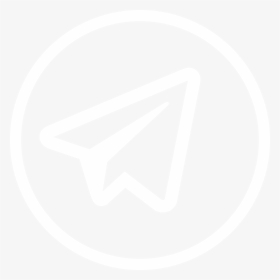
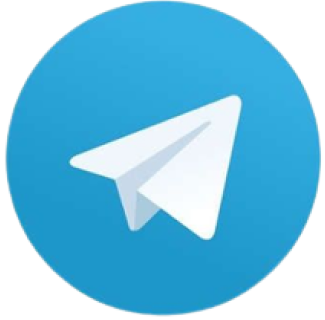
fixed bugs

diff --git a/backend/main_screen/templates/index.html b/backend/main_screen/templates/index.html
@@ -24,7 +24,6 @@
                         <img class="logo1" src="./media/images/bg2.svg" alt="logo">
                     </a> 
                 </div>
-                
     
                 <div class="nav">
                     <a class="nav-item" href="#services">УСЛУГИ</a>
@@ -53,10 +52,10 @@
 
                 <div class="soc">
                     <a href="https://t.me/unicornandflowers" class="iv">
-                        <img src="./media/images/tg.svg" alt="tg">
+                        <img src="./media/images/tg.png" alt="tg">
                     </a>
                     <a href="https://vk.com/unicornflowers" class="iv">
-                        <img src="./media/images/vk.svg" alt="vk">
+                        <img src="./media/images/vk.png" alt="vk">
                     </a>
                 </div>
                     
@@ -114,7 +113,7 @@
                     <div class="done-block-pages">
                         <img class="block-photo" src="./media/онлайн-витрина/1.jpg" alt="">
                         <div class="block-txt-price">
-                            <div class="block-titl">БУКЕТ ИЗ 51 РОЗЫ <br>Сорт ред Наоми</div>
+                            <div class="block-titl">БУКЕТ ИЗ 51 РОЗЫ</div>
                             <div class="block-price">от 7650 рублей</div>
                         </div>  
                         <a href="https://t.me/unicornandflowers" class="block-order">Заказать</a>
@@ -141,7 +140,7 @@
                     <div class="done-block-pages">
                         <img class="block-photo" src="./media/онлайн-витрина/4.jpg" alt="">
                         <div class="block-txt-price">
-                            <div class="block-titl">БУКЕТ ИЗ 17 ПИОНОВИДНЫХ РОЗ<br>Сорт Мисти баблс</div>
+                            <div class="block-titl">БУКЕТ ИЗ 17 ПИОНОВИДНЫХ РОЗ</div>
                             <div class="block-price">от 5100 рублей</div>
                         </div>  
                         <a href="https://t.me/unicornandflowers" class="block-order">Заказать</a>
@@ -223,7 +222,7 @@
                     <div class="done-block-pages">
                         <img class="block-photo" src="./media/букеты/4.jpg" alt="">
                         <div class="block-txt-price">
-                            <div class="block-titl">БУКЕТ "ДОМАНЕЕ ТЕПЛО"<br> В наличии</div>
+                            <div class="block-titl">БУКЕТ "ДОМАШНЕЕ ТЕПЛО"<br> В наличии</div>
                             <div class="block-price">от 6800 рублей</div>
                         </div>  
                         <a href="https://t.me/unicornandflowers" class="block-order">Заказать</a>
@@ -327,13 +326,13 @@
             <div class="container">
                 <div class="collabs-inner">
                     <h1 class="collabs-text">U&F & Цвета.Цветы</h1>
-                    <p class="collabs-txt">Стильные и экологичные букеты и композиции совместно c "Цвета.Цветы" можно заказать в нашем <a class="collabs-txt-a" href="@unicornandflowers">telegram</a></p>
+                    <p class="collabs-txt">Стильные и экологичные букеты и композиции совместно c "Цвета.Цветы" можно заказать в нашем <a class="collabs-txt-a" href="https://t.me/unicornandflowers">telegram</a></p>
                     <div class="niks-tg">
-                        <a class="nik-tg" href="@unicornandflowers">@unicornandflowers</a>
+                        <a class="nik-tg" href="https://t.me/unicornandflowers">@unicornandflowers</a>
                     </div>
                     <div class="collabs">
                         <div class="images-collab">
-                            <img class="img-collab" src="./media/коллаб/коллаб1.png">
+                            <img class="img-collab" src="./media/коллаб/collab.png">
                         </div>
                     </div>
                 </div>
@@ -507,8 +506,8 @@
             </div>
 
             <div class="footer-soc">
-                <a href="https://t.me/unicornandflowers"><img src="./media/images/tg.svg" alt="tg"></a>
-                <a href="https://vk.com/unicornflowers"><img src="./media/images/vk.svg" alt="vk"></a>
+                <a href="https://t.me/unicornandflowers"><img src="./media/images/tg.png" alt="tg"></a>
+                <a href="https://vk.com/unicornflowers"><img src="./media/images/vk.png" alt="vk"></a>
             </div>
         </div>
     </main>

diff --git a/static/florist-media.css b/static/florist-media.css
@@ -323,7 +323,7 @@
 
     .done-block-pages{
         width: 267px;
-        height: 387px;
+        height: 375px;
     }
 
     .block-photo{
@@ -332,8 +332,7 @@
 
     .block-titl{
         font-size: 14px;
-        min-height: 56px;
-        margin-top: 3px;
+        min-height: 34px;
     }
 }
 
@@ -791,8 +790,12 @@
 }
 
 @media (max-width:831px){
+    .container {
+        padding: 58px 48px;
+    }
+
     .nav-item{
-        padding-right: 40px;
+        padding-right: 20px;
     }
 
     .showcase-txt{
@@ -885,7 +888,7 @@
 @media (max-width:709px){
     .done-block-pages{
         width: 238px;
-        height: 370px;
+        height: 345px;
     }
 
     .block-photo{
@@ -899,8 +902,12 @@
 }
 
 @media (max-width:700px){
+    .container {
+        padding: 78px 48px;
+    }
+
     .nav-item{
-        padding-right: 40px;
+        padding-right: 12px;
     }
 
     .txt{
@@ -969,6 +976,14 @@
         margin-top: -38px;
         width: 113px;
     }
+
+    .ikonki-img{
+        width: 15px;
+    }
+
+    .iv {
+        padding-left: 7px;
+    }
 }
 
 @media (max-width:602px){
@@ -996,15 +1011,11 @@
 @media (max-width:589px){
     .done-block-pages{
         width: 204px;
-        height: 338px;
+        height: 314px;
     }
 
     .block-photo{
         width: 145px;
-    }
-
-    .block-titl{
-        min-height: 71px;
     }
 
     .kontur{
@@ -1055,9 +1066,13 @@
 }  
 
 @media (max-width:521px){
+    .showcase{
+        height: 97px;
+    }
+
     .done-block-pages{
-        width: 350px;
-        height: 475px;
+        width: 372px;
+        height: 460px;
     }
 
     .block-photo{
@@ -1065,7 +1080,7 @@
     }
 
     .block-titl{
-        min-height: 83px;
+        min-height: 63px;
         font-size: 20px;
     }
 
@@ -1097,7 +1112,7 @@
 
     .flowers-we-kontur {
         margin-left: -113px;
-        margin-top: 174px;
+        margin-top: 118px;
     }
 
     .we-two {
@@ -1137,6 +1152,10 @@
 }
 
 @media (max-width:473px){
+    .nav-item{
+        padding-right: 7px;
+    }
+    
     .about-us-text{
         padding-left: 14px;
         width: 214px;
@@ -1151,14 +1170,14 @@
     }
 
     .flowers-we-kontur {
-        margin-left: -91px;
+        margin-left: -104px;
         width: 94px;
     }
 }
 
 @media (max-width:460px){
     .nav-item{
-        padding-right: 20px;
+        padding-right: 0px;
     }
 
     .container{
@@ -1178,7 +1197,7 @@
     }
 
     .block-title-name-sol {
-        margin-top: -1px;
+        margin-top: 18px;
     }
 
     .flora-block-title {
@@ -1205,16 +1224,15 @@
 @media (max-width:403px){
     .done-block-pages{
         width: 270px;
-        height: 415px;
+        height: 401px;
     }
 
     .block-photo{
         width: 200px;
     }
 
-    .block-titl{
-        min-height: 83px;
-        font-size: 20px;
+    .block-titl {
+        padding: 0px 5px;
     }
 }
 
@@ -1290,6 +1308,10 @@
     .we-two {
         margin-left: -48px;
     }
+
+    .flowers-we-kontur {
+        margin-left: -96px;
+    }
 }
 
 @media (max-width:380px){
@@ -1309,6 +1331,10 @@
     .kira {
         width: 71px;
         margin-left: -28px;
+    }
+
+    .flowers-we-kontur {
+        margin-top: 160px;
     }
 }
 
@@ -1363,9 +1389,5 @@
 @media (max-width:316px){
     .done-block-sol {
         height: 680px;
-    }
-
-    .block-price {
-        font-size: 15px;
     }
 }

diff --git a/static/florist.css b/static/florist.css
@@ -237,7 +237,11 @@ body{
 }
 
 .iv{
-    padding-left: 20px;
+    padding-left: 10px;
+}
+
+.ikonki-img{
+    width: 15px;
 }
 
 .mash{
@@ -363,7 +367,8 @@ body{
     padding: 10px 0;
     font-size: 20px;
     color: #5b5b5b;
-    min-height: 80px;
+    min-height: 50px;
+    margin-top: 13px;
 }
 
 .block-price{
@@ -378,7 +383,7 @@ body{
     background-color: #FFFFFF;
     text-align: center;
     border-radius: 30px;
-    padding: 16px 33px;
+    padding: 10px 33px;
     transition: background-color 0.3s linear;
 }
 
